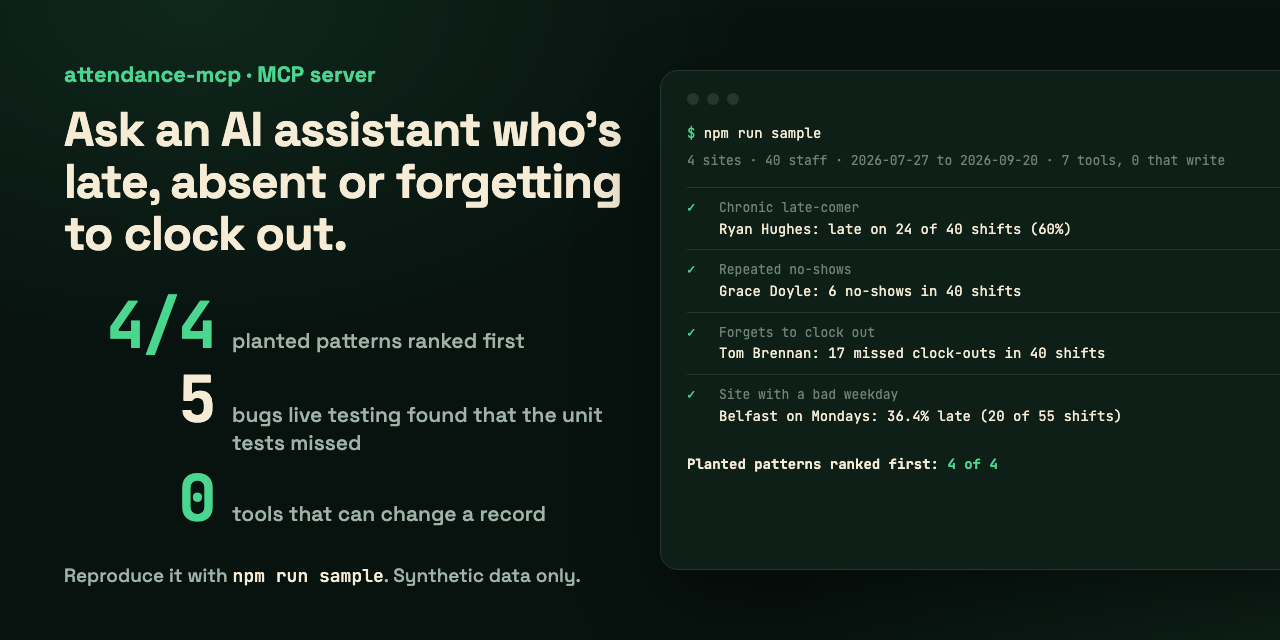
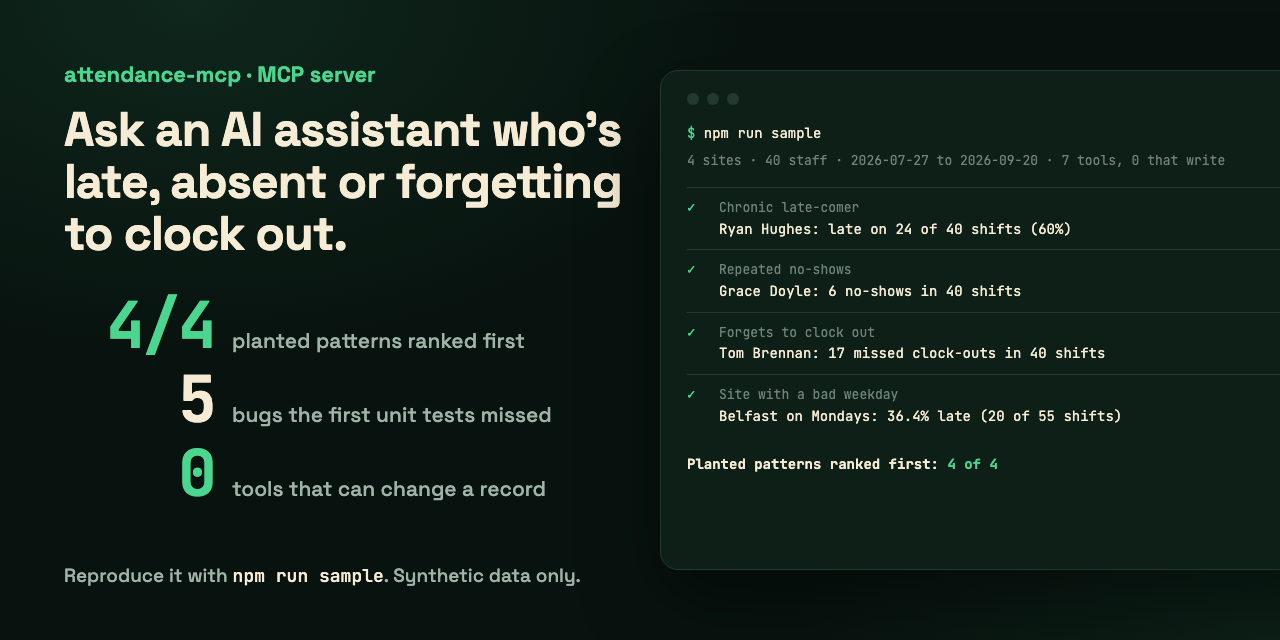
README to template v2: the v1 demo, the MCP rebuild, results and what went wrong

Changed region(s): [[0.125, 0.6875, 0.4375, 0.8125], [0.2188, 0.625, 0.4688, 0.6875]]

diff --git a/docs/src/cover.html b/docs/src/cover.html
@@ -30,7 +30,7 @@ h1{font:700 48px/1.08 "Space Grotesk";letter-spacing:-.02em;margin:16px 0 34px}
  <div class="k">attendance-mcp · MCP server</div>
  <h1>Ask an AI assistant who's late, absent or forgetting to clock out.</h1>
  <div class="row"><div class="n g">4/4</div><div class="l">planted patterns ranked first</div></div>
- <div class="row"><div class="n">5</div><div class="l">bugs live testing found that the unit tests missed</div></div>
+ <div class="row"><div class="n">5</div><div class="l">bugs the first unit tests missed</div></div>
  <div class="row"><div class="n g">0</div><div class="l">tools that can change a record</div></div>
 </div>
 <div class="foot">Reproduce it with <code>npm run sample</code>. Synthetic data only.</div>

diff --git a/README.md b/README.md
@@ -1,22 +1,61 @@
 # attendance-mcp
 
-**An MCP server that lets an AI assistant answer a manager's attendance questions: who is regularly late, who keeps not turning up, and which site has a bad day of the week.**
+**Ask an AI assistant who's late, absent or forgetting to clock out.**
 
-It exposes seven read-only tools, a schema resource and a review prompt over the [Model Context Protocol](https://modelcontextprotocol.io), so any MCP client (Claude Code, Claude Desktop, Cursor and others) can use them. It runs on synthetic data with known patterns planted in it, so every answer can be checked.
+[![Planted patterns found](https://img.shields.io/badge/planted_patterns-4_of_4-0c1a1c?style=for-the-badge&labelColor=0c1a1c&color=e3cd9c)](#results)
+[![Write tools](https://img.shields.io/badge/write_tools-0-0c1a1c?style=for-the-badge&labelColor=0c1a1c&color=7fe6da)](#ground-rules)
+[![tests](https://img.shields.io/github/actions/workflow/status/AIwithDiego/attendance-mcp/ci.yml?branch=main&style=for-the-badge&label=tests&labelColor=0c1a1c)](https://github.com/AIwithDiego/attendance-mcp/actions/workflows/ci.yml)
+![MCP server](https://img.shields.io/badge/MCP-server-0c1a1c?style=for-the-badge&logo=anthropic&logoColor=7fe6da)
+![TypeScript](https://img.shields.io/badge/TypeScript-0c1a1c?style=for-the-badge&logo=typescript&logoColor=7fe6da)
+[![MIT](https://img.shields.io/badge/licence-MIT-0c1a1c?style=for-the-badge&labelColor=0c1a1c)](LICENSE)
 
-> Who's regularly late in Manchester, and does any site have a bad day of the week?
+[![On synthetic data with four planted patterns, the tools rank all four first, and none of the seven tools can change a record.](docs/assets/cover.png)](#results)
 
-> Ryan Hughes is the outlier: late on 24 of 40 shifts (60%), 22.8 minutes on average. The next person is at 18.4%. The bad day is **Belfast on Mondays**: 36.4% late against 3 to 11% on its other days, and it's spread across the site's staff, so it looks structural (start time, rota, transport) rather than one person. Manchester is flat by weekday because its problem is one person.
+```bash
+git clone https://github.com/AIwithDiego/attendance-mcp && cd attendance-mcp && npm ci && npm run build
+claude mcp add attendance -- node --disable-warning=ExperimentalWarning "$(pwd)/dist/index.js"
+```
 
-That answer came from a live Claude Code session calling `repeat_late_arrivals` and `location_trends` (figures updated to the current late-rate definition, see below). The full sessions are in [`docs/`](docs/).
+An MCP server in TypeScript on the official SDK. Built in Dublin with Claude Code, September 2026, as the second version of an internal AI demo I made at a former job. Runs on synthetic data only.
 
-## Why I built it
+**Works with:** Claude Code · Claude Desktop · Cursor · any MCP client ([setup](#run-it-yourself))
 
-In a previous role I built an LLM agent with a set of custom tools for exactly this job: finding lateness patterns in clock-in data across several sites, on synthetic data. Those tools lived inside one agent, so only that agent could use them.
+**[Install it](#run-it-yourself)** · **[See the results](#results)** · [Live test logs](docs/test-session-2026-09-25-run2.md)
 
-MCP turns tools into a separate service with a standard interface: build them once, and any MCP client can connect. This repo is a from-scratch rebuild of that idea as an MCP server, with new code and new synthetic data.
+**Contents:** [The problem](#the-problem) · [Research](#research) · [What it does](#what-it-does) · [Results](#results) · [The build](#the-build) · [What went wrong](#what-went-wrong) · [What I learned](#what-i-learned) · [Run it yourself](#run-it-yourself)
 
-## Tools
+## The problem
+
+A manager with several sites wants plain answers. Who is regularly late? Who keeps not turning up? Is one site worse on a certain day? The data to answer that sits in clock-in records, and getting a pattern out of them means knowing which report to open and reading it yourself.
+
+An AI assistant can do the reading, but only if it can reach the data safely, and only if its answers can be trusted. With attendance, a wrong answer is about a real person:
+
+- **An empty result reads as a fact.** If a misspelt site name returns nothing, the model says "nobody was late".
+- **A guess becomes an accusation.** If "Brennan" matches four people, picking one is a mistake about someone's record.
+- **Two meanings of one number** let the model compare things that don't compare.
+- **Any write access** turns a reporting tool into something that can change a person's record.
+
+> v1 was an agent with its own private tools, shown once to colleagues. v2 is a server any assistant can plug into, and every answer can be checked.
+
+## Research
+
+**What already exists.** v1 was an internal demo I built at a former job, at a company that makes workforce software, to show colleagues what AI could do. It was an LLM agent with a few custom tools that looked for lateness patterns in clock-in data. It was never live. Its weakness was structural: the tools lived inside that one agent, so nothing else could use them. The [Model Context Protocol](https://modelcontextprotocol.io) fixes exactly that: build the tools once as a server, and Claude Code, Claude Desktop, Cursor or any MCP client can connect. This repo is that idea rebuilt from scratch as an MCP server, with new code and new synthetic data. Nothing from v1 is in it.
+
+**Who it's for.** Developers who want to put an AI assistant on top of their own product's data and want a small, tested example of an MCP server built carefully. The person in the story is a site manager asking questions in plain words, so every tool description and error is written for the model that answers them.
+
+**The limits we chose.** These are the decisions:
+
+1. **Read-only.** Every tool carries `readOnlyHint: true`, and an existing database file is opened read-only.
+2. **An empty result means nothing happened.** Bad input is an error that lists what's valid, never an empty list.
+3. **Ambiguity goes back to the model.** A name that matches several people returns the candidates and asks which one.
+4. **One definition per metric.** `late_rate_pct` is late shifts over attended shifts everywhere, and the schema resource says so.
+5. **No reasons.** The tools report patterns. They never guess why someone is late.
+
+**What I didn't build.** No write tools (approving timesheets, editing shifts), no connector to a real workforce system, and no npm package yet. A server that can change records, or that reads real people's data, needs a different level of review. Synthetic data with planted patterns keeps every answer checkable.
+
+## What it does
+
+A manager asks a question in Claude Code or Claude Desktop. The model reads the tool descriptions, picks one, and gets back JSON with the counts behind every rate, so the answer can be checked.
 
 | Tool | Answers |
 |---|---|
@@ -24,104 +63,129 @@ MCP turns tools into a separate service with a standard interface: build them on
 | `find_late_arrivals` | Who was late on a given day or week, worst first? |
 | `repeat_late_arrivals` | Who is regularly late? Count, rate and average minutes late per person. |
 | `repeat_missing_clock_events` | Who keeps not turning up, or forgets to clock out? |
-| `missing_clock_events` | List every no-show and missed clock-out. |
-| `employee_attendance` | One person's summary and incident list, by ID or part of a name. |
+| `missing_clock_events` | Every no-show and missed clock-out. |
+| `employee_attendance` | One person's summary and incidents, by ID or part of a name. |
 | `location_trends` | Late rate per site by weekday or by week. |
+| Resource `attendance://schema` | The data model and definitions ("late", "no-show", "late rate"), so the model knows what the numbers mean. |
+| Prompt `weekly_attendance_review` | Reviews one week for a site against the previous four and drafts a short summary for the site manager. |
 
-Plus:
+<table>
+<tr>
+<td width="50%"><img src="docs/assets/bad-input-error-lists-valid-options.png" alt="find_late_arrivals with location Narnia returns an error listing Belfast, Cork, Dublin and Manchester; a reversed date range returns an error naming both dates"></td>
+<td width="50%"><img src="docs/assets/ambiguous-name-asks-which-one.png" alt="employee_attendance with the name Brennan returns four candidates with ID, role and site, and a message telling the model to ask which one"></td>
+</tr>
+<tr>
+<td>A bad input is an error that says what's valid.</td>
+<td>Four people match "Brennan", so it asks back.</td>
+</tr>
+</table>
 
-- **Resource `attendance://schema`**: the data model and definitions ("late", "no-show", "late rate"), so the model knows what the numbers mean before it reads them.
-- **Prompt `weekly_attendance_review`**: reviews one week for a site against the previous four and drafts a short summary for the site manager.
+Both are real responses from the built server over stdio ([source](docs/src/screens.html)).
 
-Every tool is annotated `readOnlyHint: true`. Nothing in this server can change a record.
+![How attendance-mcp works](docs/how-it-works.svg)
 
-## Quick start
+1. **Seed** (`src/seed.ts`): 4 sites (Dublin, Cork, Manchester, Belfast), 40 staff and 8 weeks of shifts from a fixed seed, identical on every run. Four patterns are planted: a chronic late-comer, repeated no-shows, repeated missed clock-outs, and a site that runs late on Mondays.
+2. **Queries** (`src/queries.ts`): the SQL. Every value from a tool call is a named parameter; nothing a caller sends is concatenated into SQL.
+3. **Server** (`src/server.ts`): the tools, resource and prompt, zod schemas that bound every input, and one shared check in front of every tool.
+4. **Entry point** (`src/index.ts`): connects to stdio. stdout is the protocol channel, so logs go to stderr.
 
-Requires Node.js 22.13 or later (it uses the built-in `node:sqlite`).
+## Results
 
-```bash
-git clone https://github.com/AIwithDiego/attendance-mcp && cd attendance-mcp
-npm ci && npm run build
-```
+**On the synthetic data, the tools rank all four planted patterns first, and none of the seven tools can write.**
 
-**Claude Code:**
+| Planted pattern | What the tools returned |
+|---|---|
+| Chronic late-comer | Ryan Hughes, late on 24 of 40 shifts (60%). The next person is at 18.4%. |
+| Repeated no-shows | Grace Doyle, 6 no-shows in 40 shifts |
+| Forgets to clock out | Tom Brennan, 17 missed clock-outs in 40 shifts |
+| Site with a bad weekday | Belfast on Mondays, 36.4% late (20 of 55 shifts), against 3 to 11% on its other days |
 
-```bash
-claude mcp add attendance -- node --disable-warning=ExperimentalWarning "$(pwd)/dist/index.js"
-```
+How it's measured: [`scripts/sample-analysis.mjs`](scripts/sample-analysis.mjs) starts the built server over stdio, the way Claude Code does, makes four tool calls and checks the planted names come out on top. It exits non-zero if any don't, and CI runs it on every push. Output: [`docs/sample-analysis.md`](docs/sample-analysis.md).
 
-**Claude Desktop** (`claude_desktop_config.json`):
+The same patterns came back in two live Claude Code sessions. Asked *"Who's regularly late in Manchester, and does any site have a bad day of the week?"*, Claude called `repeat_late_arrivals` and `location_trends` and answered:
 
-```json
-{
-  "mcpServers": {
-    "attendance": {
-      "command": "node",
-      "args": ["--disable-warning=ExperimentalWarning", "/absolute/path/to/attendance-mcp/dist/index.js"]
-    }
-  }
-}
-```
+> Ryan Hughes is the outlier: late on 24 of 40 shifts (60%), 22.8 minutes on average. The next person is at 18.4%. The bad day is **Belfast on Mondays**: 36.4% late against 3 to 11% on its other days, and it's spread across the site's staff, so it looks structural (start time, rota, transport) rather than one person. Manchester is flat by weekday because its problem is one person.
 
-**MCP Inspector** (click through the tools without an AI client): `npm run inspect`.
+(Figures updated to the current late-rate definition; the session logs keep the originals.)
 
-Then ask it things like *"Is anyone's lateness getting worse?"*, *"Who forgets to clock out in Cork?"* or *"Run the weekly review for Belfast, week of 14 September."*
+## The build
 
-## How it works
+Built with Claude Code and published on 25 September 2026. The order: write the server, test it live in Claude Code, fix, test again, security review, publish.
 
-```mermaid
-flowchart LR
-  Client["MCP client<br/>Claude Code, Claude Desktop, ..."] -- "JSON-RPC over stdio" --> Server["McpServer<br/>src/server.ts"]
-  Server --> Check["Shared input checks<br/>real dates, known site,<br/>range inside the data"]
-  Check --> Queries["Parameterised SQL<br/>src/queries.ts"]
-  Queries --> DB[("SQLite<br/>synthetic, seeded<br/>src/seed.ts")]
-```
+| Milestone | What landed |
+|---|---|
+| [`7d14d5e`](https://github.com/AIwithDiego/attendance-mcp/commit/7d14d5e) | The server: 7 read-only tools, schema resource, review prompt, seeded data, tests through a real MCP client |
+| [Live session 1](docs/test-session-2026-09-25.md) | 19 real tool calls from Claude Code. All planted patterns found; 3 bugs and 1 missing tool |
+| [Live session 2](docs/test-session-2026-09-25-run2.md) | 87 calls across all seven tools after the fixes. All run-1 fixes held; 1 new bug, 3 rough edges and 1 design gap |
+| [`bd34d42`](https://github.com/AIwithDiego/attendance-mcp/commit/bd34d42) | Security-review fixes (existing DB opens read-only and unseeded, capped results, pinned Inspector), CI on Node 22 and 24, Dependabot, 26 tests. Published as v0.1.0 |
+| `docs/template-v2` | This README, `npm run sample` as a reproducible check, gitleaks in CI, contributing and security files |
 
-- `src/seed.ts` generates 4 sites (Dublin, Cork, Manchester, Belfast), 40 staff and 8 weeks of shifts and clock events from a fixed seed, so the data is identical on every run. Four patterns are planted: a chronic late-comer, repeated no-shows, repeated missed clock-outs, and a site that runs late on Mondays.
-- `src/queries.ts` holds the SQL. Every value from a tool call is a named parameter; nothing a caller sends is concatenated into SQL.
-- `src/server.ts` registers the tools, resource and prompt, with zod schemas that bound every input.
-- `src/index.ts` connects the server to stdio. stdout is the protocol channel, so logs go to stderr.
+The security review was done by Hank, my AI security reviewer ([public version](https://github.com/AIwithDiego/hank)). Its verdict was to ship, with the low findings applied in `bd34d42`.
 
-## Design decisions
+## What went wrong
 
-- **Tools are written for a model, not a human.** Descriptions say when to use each tool ("use for 'who is regularly late' questions"), because that's what the model reads when it picks one. In the live sessions it picked the right tool first time.
-- **An empty result must mean "nothing happened", never "you asked wrong".** A model reports an empty list as fact. An unknown site, a reversed date range or dates outside the data return an error that says what's valid instead.
-- **Ambiguity goes back to the model.** If a name matches several people, `employee_attendance` returns the candidates and tells the model to ask which one, instead of guessing.
-- **Read-only by design.** Attendance data feeds conversations about real people. This server reports; it never edits.
-- **One definition per metric.** `late_rate_pct` is late shifts divided by *attended* shifts in every tool, and it's written down in the schema resource.
+The two live sessions, and the tests written for their fixes, found five bugs, four rough edges and one missing tool. The first round of unit tests passed straight over all of them. Each now has a regression test.
 
-## Testing
-
-Two kinds:
-
-1. **Automated: 26 tests** (`npm test`) that talk to the server through a real MCP client over an in-memory transport, the same protocol path Claude uses. They check the tools find every planted pattern, cover input validation and SQL injection attempts, and include a regression test for every bug below.
-2. **Live sessions**: I connected the server to Claude Code and ran realistic manager questions and edge cases against it: 19 calls in the first session, 87 across all seven tools in the second. The write-ups, with evidence for each finding, are in [`docs/test-session-2026-09-25.md`](docs/test-session-2026-09-25.md) and [`docs/test-session-2026-09-25-run2.md`](docs/test-session-2026-09-25-run2.md).
-
-CI runs typecheck, tests and build on Node 22 and 24.
+| | |
+|---|---|
+| **An empty list is an answer, so it has to be a true one.** A misspelt site, reversed dates or dates outside the data returned `[]`, which the model would report as "nobody was late". One shared check now returns an error listing the valid options. | [regression tests](https://github.com/AIwithDiego/attendance-mcp/blob/bd34d42/test/server.test.ts#L141-L156) |
+| **A date bug hid the exact pattern it should have shown.** SQLite's `weekday 1` leaves a Monday where it is, so `'-7 days'` pushed every Monday into the previous week. The planted pattern was a Monday effect. It showed up only because the weekly totals didn't add up (7 + 43 instead of 50 shifts). | [regression test](https://github.com/AIwithDiego/attendance-mcp/blob/bd34d42/test/server.test.ts#L123-L131) |
+| **A shift can be two things at once.** A late shift with no clock-out was labelled only "late", so the incident list disagreed with the summary. Incidents now carry a list of types. | [regression test](https://github.com/AIwithDiego/attendance-mcp/blob/bd34d42/test/server.test.ts#L133-L139) |
+| **Search strings are input too.** `%` or `_` in a name search matched all 40 employees, because they're `LIKE` wildcards. They're escaped now, and a blank search is an error. | [regression tests](https://github.com/AIwithDiego/attendance-mcp/blob/bd34d42/test/server.test.ts#L168-L178) |
+| **One metric had two meanings.** The per-person late rate left no-shows out and the site trend put them in. Both now divide by attended shifts, and responses include the counts. | [regression test](https://github.com/AIwithDiego/attendance-mcp/blob/bd34d42/test/server.test.ts#L197-L206) |
+| **No way to rank who keeps not turning up.** Session 1 found the planted no-shows only by counting by hand. `repeat_missing_clock_events` was added. | [regression test](https://github.com/AIwithDiego/attendance-mcp/blob/bd34d42/test/server.test.ts#L158-L163) |
+| **The fix's test found the next bug.** The regression test for out-of-range dates turned up an error message naming a date the caller never sent. | [regression test](https://github.com/AIwithDiego/attendance-mcp/blob/bd34d42/test/server.test.ts#L180-L185) |
 
 ## What I learned
 
-The two live sessions and the tests written for their fixes found five bugs, four rough edges and one missing tool, all of which the first round of unit tests passed straight over. Each is fixed and has a regression test.
+- **Tool descriptions are for the model.** Saying when to use each tool ("use for 'who is regularly late' questions") is what made Claude pick the right one first time in the live sessions.
+- **Unit tests check what you thought of; a live session checks what a model does.** Every bug above passed the first unit tests and showed up within a few real calls.
+- **Make the data plant its own answers.** Known patterns in synthetic data turn "looks right" into a check that passes or fails, which is what `npm run sample` does.
+- **Errors are part of the interface.** An error that lists the valid sites lets the model recover in the same turn.
+- **Tools inside one agent stay there.** v1's tools could only ever serve v1. As an MCP server, the same idea works in any client.
 
-- **An empty list is an answer, so it has to be a true one.** A misspelt site name returned `[]`, which the model would report as "nobody was late". The same went for reversed dates and dates outside the data. The fix is one shared check in front of every tool, and errors that list the valid options so the model can recover.
-- **A date bug hid the exact pattern it should have shown.** SQLite's `weekday 1` leaves a Monday where it is, so `'weekday 1', '-7 days'` pushed every Monday into the previous week. The planted pattern was a Monday effect. It showed up only because the weekly totals didn't add up (7 + 43 instead of 50 shifts).
-- **A shift can be two things at once.** A late shift with no clock-out was labelled only "late", so the incident list disagreed with the summary. Incidents now carry a list of types.
-- **Search strings are input too.** `%` or `_` in a name search matched all 40 employees, because they're `LIKE` wildcards. They're escaped now, and a blank search is an error.
-- **One metric, one meaning.** The per-person late rate left no-shows out and the site trend put them in. Both now divide by attended shifts, and the response includes the counts so the maths can be checked.
-- **Writing the test finds the next bug.** The regression test for out-of-range dates turned up an error message that named a date the caller never sent.
+**What's next:** an npm package so it installs in one line.
 
-## Data
+## Ground rules
 
-All names, shifts and clock events are synthetic, generated by `src/seed.ts`. By default the database lives in memory and is rebuilt on every start. Set `ATTENDANCE_DB=/path/to/file.db` to keep it on disk.
+- **Read-only.** No tool can change a record, and an existing database file is opened read-only and never seeded.
+- **Synthetic data only.** Every name, shift and clock event comes from `src/seed.ts`.
+- **No guessing about people.** An ambiguous name returns candidates; the tools never suggest reasons for lateness.
+- **Real data needs more than this.** Pointed at real clock-in records, this becomes a tool for monitoring workers, which the EU AI Act lists as high-risk (Annex III, point 4(b)) and which under GDPR needs a data protection impact assessment first. The choices above are a starting point for that, not a substitute.
 
-Times are local to each site; comparisons across sites ignore timezones.
+## Run it yourself
 
-An existing database file is opened **read-only** and never seeded, so pointing `ATTENDANCE_DB` at a database can't add tables or rows to it. Only a path that doesn't exist yet gets created and seeded.
+Needs Node.js 22.13 or later (it uses the built-in `node:sqlite`).
 
-## Using it on real data
+1. `git clone https://github.com/AIwithDiego/attendance-mcp && cd attendance-mcp && npm ci && npm run build`
+2. **Claude Code:** `claude mcp add attendance -- node --disable-warning=ExperimentalWarning "$(pwd)/dist/index.js"`
+3. **Claude Desktop:** add this to `claude_desktop_config.json` and restart:
+   ```json
+   { "mcpServers": { "attendance": { "command": "node", "args": ["--disable-warning=ExperimentalWarning", "/absolute/path/to/attendance-mcp/dist/index.js"] } } }
+   ```
+4. Ask *"Who's regularly late in Manchester?"*, *"Who forgets to clock out in Cork?"* or *"Run the weekly review for Belfast, week of 14 September."* No AI client? `npm run inspect` opens the MCP Inspector.
+5. Check the numbers: `npm test` (26 tests) and `npm run sample` (the four planted patterns).
 
-This is a demo on synthetic data. Pointed at real clock-in records it becomes a tool for monitoring and evaluating workers, which the EU AI Act lists as high-risk (Annex III, point 4(b)) and which under GDPR needs a data protection impact assessment first. The design choices above (read-only, fixed definitions, no guessing at reasons for lateness) are a starting point for that, not a substitute.
+The database lives in memory and is rebuilt on every start. Set `ATTENDANCE_DB=/path/to/file.db` to keep it on disk. Times are local to each site.
 
-## License
+## Repo map
 
-MIT
+```
+src/index.ts           entry point: stdio transport, logs to stderr
+src/server.ts          tools, resource, prompt, input checks
+src/queries.ts         parameterised SQL, one definition per metric
+src/seed.ts            synthetic data from a fixed seed, with the planted patterns
+test/server.test.ts    26 tests through a real MCP client, incl. a regression test per bug
+scripts/               sample-analysis.mjs: the reproducible check behind the results
+docs/                  live test sessions, sample analysis, diagram, images; docs/src/ draws them
+```
+
+## Credits
+
+Built on the [Model Context Protocol](https://modelcontextprotocol.io) TypeScript SDK and its Inspector. Written with [Claude Code](https://claude.com/claude-code); security review by [Hank](https://github.com/AIwithDiego/hank). Contributing: [CONTRIBUTING.md](CONTRIBUTING.md). Security issues: [SECURITY.md](SECURITY.md).
+
+## Licence
+
+MIT · Made in Dublin by [Diego Bauer](https://www.aiwithdiego.com) · [LinkedIn](https://www.linkedin.com/in/diego-bauer-domeyko/)
+
+Built by [AIwithDiego](https://www.aiwithdiego.com). Need something like this for your team? [Talk to me](https://www.aiwithdiego.com).
